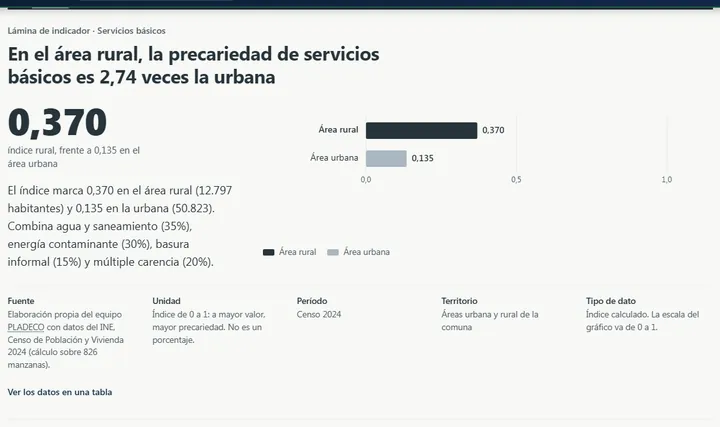
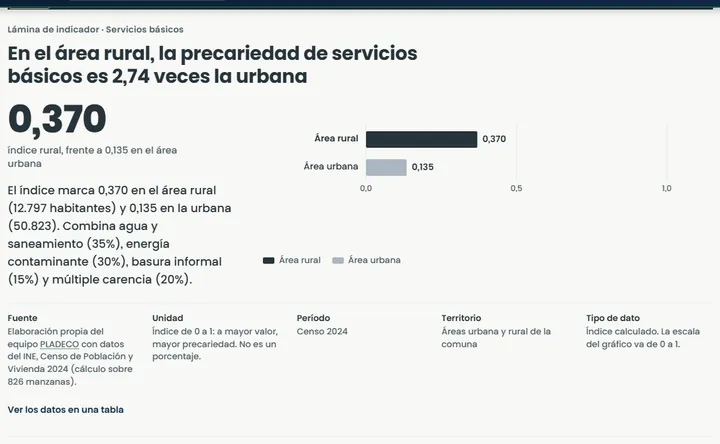
docs · v45.358: miniaturas de la lámina del sistema gráfico con Poppins
Las nueve capturas se rehicieron después de que Poppins empezó a cargar y de
medir los rótulos de las láminas. Se actualizan sus altos en la lámina.

diff --git a/Portal_PLADECO/graficos/lamina-sistema-grafico.html b/Portal_PLADECO/graficos/lamina-sistema-grafico.html
@@ -213,13 +213,13 @@ footer{margin-top:56px;border-top:1px solid var(--c-gris-azulado);padding-top:16
   var PIEZAS=[
     ['apertura','Apertura de capítulo','Número como orientación, título protagonista, introducción del texto existente y la panorámica. Capítulo II.',357],
     ['ejes','Iconos en las tarjetas de ejes','Contorno en tinta y relleno de acento; número y nombre al lado.',439],
-    ['lamina-poblacion','Lámina de indicador · evolución','Censos observados, proyección discontinua con banda de escenarios y marca del último censo.',458],
-    ['lamina-ipsb','Lámina de indicador · comparación','Dos barras que parten en cero sobre la escala completa del índice, de 0 a 1, con el valor escrito junto a cada una.',427],
-    ['lamina-meta','Lámina de indicador · meta','Línea base observada, medición posterior pendiente y metas con contorno.',462],
-    ['ficha-rosario','Ficha territorial de Rosario','Cifra principal, fotografía fechada, localizador referencial, desafíos citados y acciones que lo nombran.',880],
-    ['foto-anotada','Fotografía anotada','Marcas numeradas; cada una remite a una frase del informe municipal.',457],
-    ['diagrama','Diagnóstico y respuesta','Brecha, evidencia, objetivo y acciones; lo no documentado queda en discontinuo.',449],
-    ['hallazgos','Hallazgos de la participación','Cifras contadas en las respuestas de la encuesta, en lugar de citas construidas.',675]
+    ['lamina-poblacion','Lámina de indicador · evolución','Censos observados, proyección discontinua con banda de escenarios y marca del último censo.',470],
+    ['lamina-ipsb','Lámina de indicador · comparación','Dos barras que parten en cero sobre la escala completa del índice, de 0 a 1, con el valor escrito junto a cada una.',444],
+    ['lamina-meta','Lámina de indicador · meta','Línea base observada, medición posterior pendiente y metas con contorno.',471],
+    ['ficha-rosario','Ficha territorial de Rosario','Cifra principal, fotografía fechada, localizador referencial, desafíos citados y acciones que lo nombran.',893],
+    ['foto-anotada','Fotografía anotada','Marcas numeradas; cada una remite a una frase del informe municipal.',479],
+    ['diagrama','Diagnóstico y respuesta','Brecha, evidencia, objetivo y acciones; lo no documentado queda en discontinuo.',446],
+    ['hallazgos','Hallazgos de la participación','Cifras contadas en las respuestas de la encuesta, en lugar de citas construidas.',661]
   ];
   document.getElementById('miniaturas').innerHTML=PIEZAS.map(function(p){
     return '<figure><img src="lamina/piloto_'+p[0]+'_1440.webp" width="720" height="'+p[3]+'" alt="Captura: '+p[1]+'" loading="lazy"><figcaption><b>'+p[1]+'</b>'+p[2]+'</figcaption></figure>';
